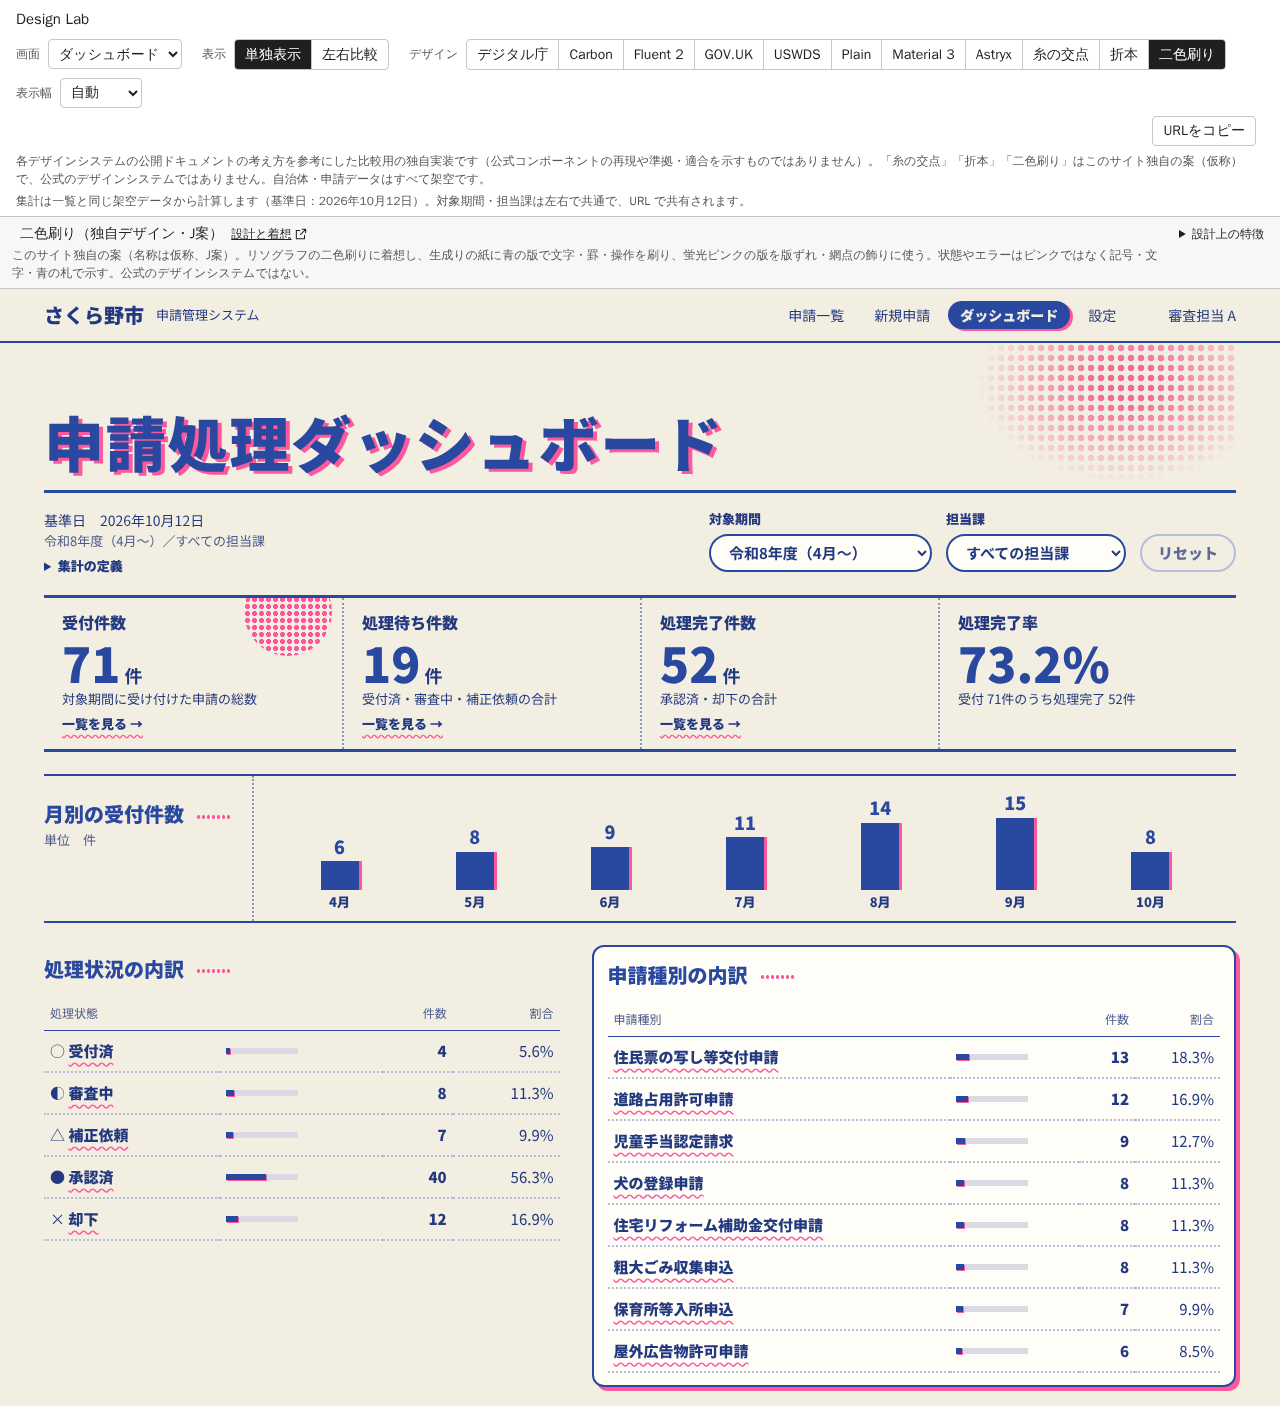
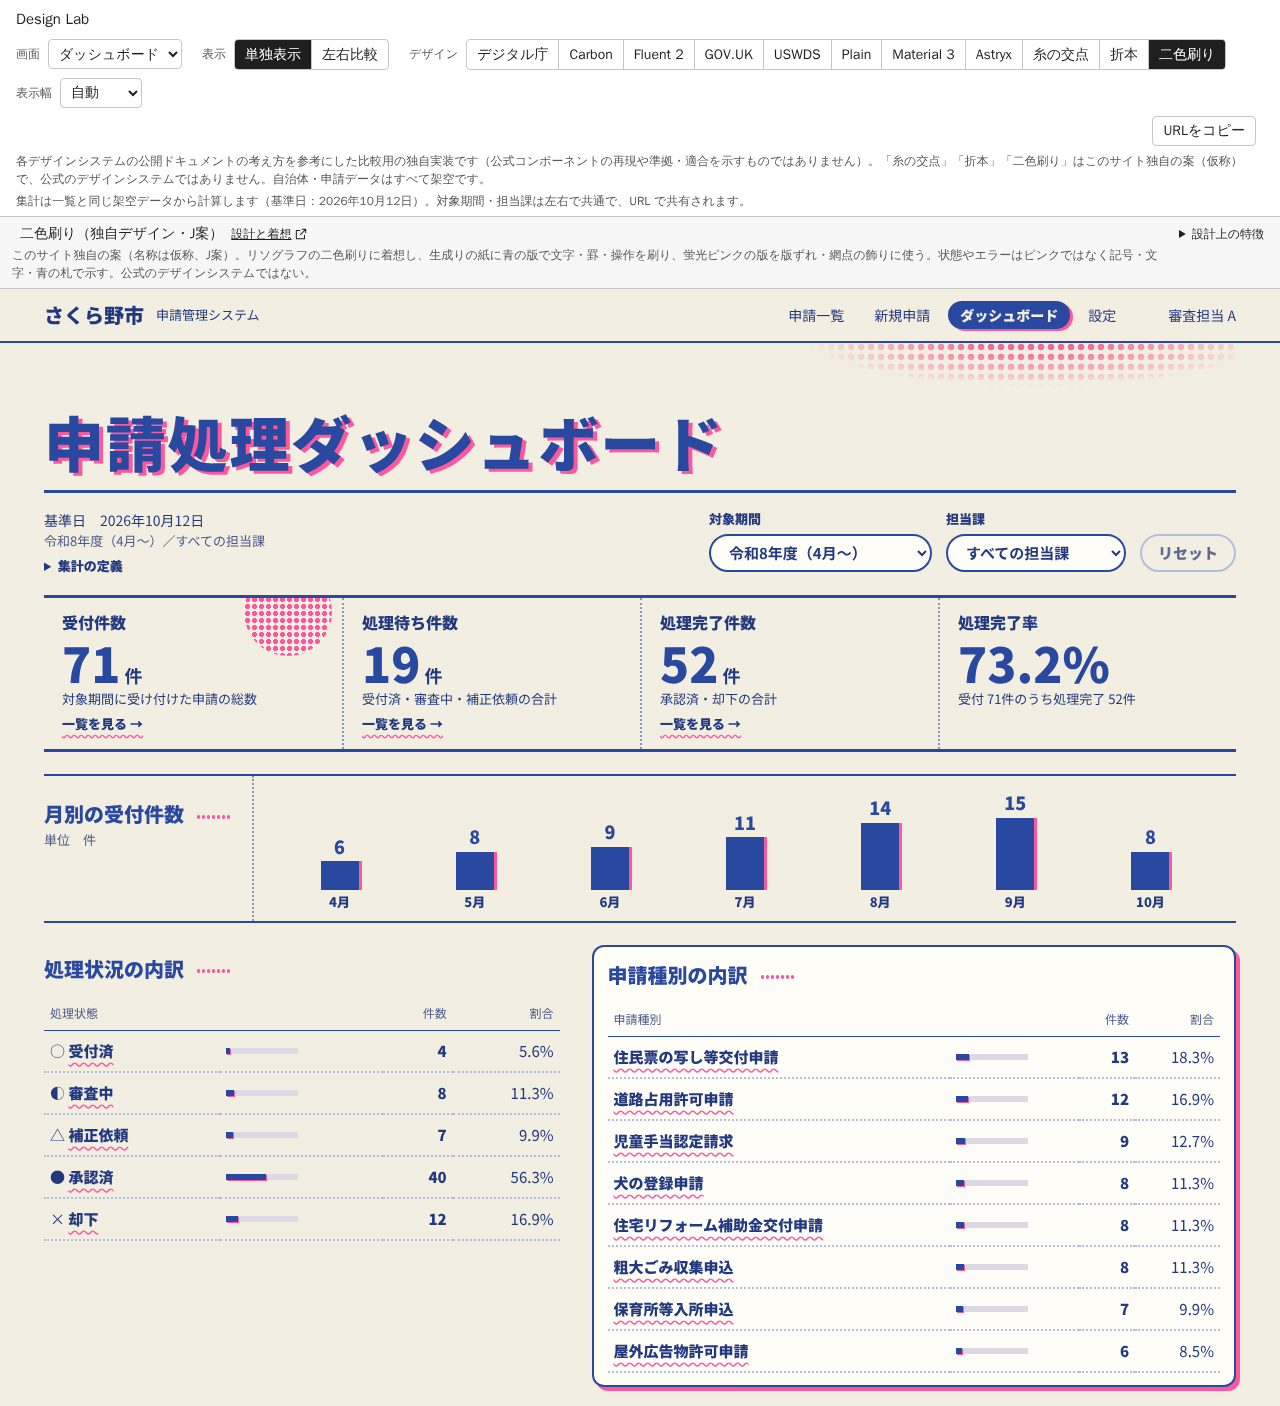
レビュー指摘に対応：表題の網点、0件の指標と空の一覧の案内、見出しの二重読み上げ
- 表題の網点を、見出しの上の余白の帯（--jr-band）だけに刷るようにした。見出し・件数・操作は帯の下に
  置くので、どの幅でも網点と重ならない（768px の一覧の件数、375px のダッシュボードの表題）
- 版ずれのピンクの複製（::before）は代替テキストを空にし（content: attr(data-text) / ''）、
  見出しの名前に入らないようにした。見た目は変えていない
- 0件の指標は一覧へのリンクを置かない（内訳の0件の行と同じ扱い）
- 空の一覧の案内は、その時点で画面にある解除の操作（「条件をクリア」「引き継ぎを解除」）だけを挙げる
- E2E：網点の重なりの確認を表題（一覧・ダッシュボード）へ広げ、見出しの名前・0件の指標・空の一覧の案内の
  確認を追加（いずれも修正前のコードでは失敗することを確認）
- このPRで追加した画面写真を差し替え

Claude-Session: https://claude.ai/code/session_016WQqJD6APGGPPhg2SEfqha

Changed region(s): [[0.6562, 0.2447, 0.9688, 0.3364]]

diff --git a/site/assets/css/designs/j-risograph.css b/site/assets/css/designs/j-risograph.css
@@ -45,17 +45,15 @@
 .ds-j-risograph .jr-btn--ghost { background: transparent; color: var(--jr-ink); border: 2px solid var(--jr-blue); box-shadow: none; }
 
 /* 表題：版ずれの見出し（青の上にピンクのずれ）、網点のにじみ */
-.ds-j-risograph .jl-hero { position: relative; display: flex; flex-wrap: wrap; align-items: flex-end; gap: 12px 26px; min-height: 150px; padding: 24px 0 18px; border-bottom: 3px solid var(--jr-blue); overflow: hidden; }
+/* 網点は表題の上の余白の帯（--jr-band）だけに刷る。見出し・件数・操作は帯の下に置き、網点と重ならない */
+.ds-j-risograph .jl-hero { --jr-band: 64px; position: relative; display: flex; flex-wrap: wrap; align-items: flex-end; gap: 12px 26px; min-height: 150px; padding: var(--jr-band) 0 18px; border-bottom: 3px solid var(--jr-blue); overflow: hidden; }
 .ds-j-risograph .jl-title { position: relative; z-index: 1; font-size: 60px; font-weight: 900; letter-spacing: 0.03em; line-height: 1.05; color: var(--jr-blue); }
-.ds-j-risograph .jl-title::before { content: attr(data-text); position: absolute; left: 4px; top: 3px; width: 100%; z-index: -1; color: var(--jr-pink); mix-blend-mode: multiply; } /* 見出しと同じ幅にして、同じ位置で折り返す */
+.ds-j-risograph .jl-title::before { content: attr(data-text) / ''; position: absolute; left: 4px; top: 3px; width: 100%; z-index: -1; color: var(--jr-pink); mix-blend-mode: multiply; } /* ピンクの版は飾り：代替テキストを空にして見出しの名前に入れない。見出しと同じ幅で、同じ位置で折り返す */
 .ds-j-risograph .jl-hero__count { position: relative; z-index: 1; font-size: 22px; font-weight: 900; }
 .ds-j-risograph .jl-hero__count b { font-size: 50px; line-height: 1; margin-right: 4px; color: var(--jr-blue); font-variant-numeric: tabular-nums; }
 .ds-j-risograph .jl-hero__count span { font-size: 15px; font-weight: 400; }
 .ds-j-risograph .jl-new { position: relative; z-index: 1; margin-left: auto; min-height: 42px; padding: 6px 22px; font-size: 15px; }
-.ds-j-risograph .jl-hero__dots { position: absolute; right: -40px; top: -70px; width: 460px; height: 280px; background: radial-gradient(circle, var(--jr-pink) 0 3.2px, transparent 3.6px) 0 0 / 10px 10px; -webkit-mask-image: radial-gradient(closest-side, #000 20%, transparent 100%); mask-image: radial-gradient(closest-side, #000 20%, transparent 100%); mix-blend-mode: multiply; opacity: 0.85; pointer-events: none; }
-.ds-j-risograph .jl-hero--list .jl-hero__dots { right: 120px; }
-.ds-j-risograph .jl-hero--form .jl-hero__dots { right: auto; left: 360px; top: auto; bottom: -150px; width: 220px; height: 220px; border-radius: 50%; -webkit-mask-image: none; mask-image: none; background-size: 8px 8px; }
-.ds-j-risograph .jl-hero--dashboard .jl-hero__dots { width: 300px; height: 200px; top: -60px; }
+.ds-j-risograph .jl-hero__dots { position: absolute; right: -30px; top: calc(var(--jr-band) * -0.8); width: 460px; height: calc(var(--jr-band) * 1.8 - 20px); /* 下端は帯の下端より 20px 上（大きな文字の字面は行の上へはみ出すため） */ background: radial-gradient(circle, var(--jr-pink) 0 3.2px, transparent 3.6px) 0 0 / 10px 10px; -webkit-mask-image: radial-gradient(closest-side, #000 25%, transparent 100%); mask-image: radial-gradient(closest-side, #000 25%, transparent 100%); mix-blend-mode: multiply; opacity: 0.85; pointer-events: none; }
 
 .ds-j-risograph .jl-notice { display: flex; flex-wrap: wrap; align-items: baseline; justify-content: space-between; gap: 6px 16px; margin-top: 14px; padding: 10px 16px; background: var(--jr-field); border: 2px solid var(--jr-blue); border-radius: 10px; }
 
@@ -223,7 +221,6 @@
   .ds-j-risograph .jd-kpi:nth-child(n + 3) { border-top: 2px dotted #8898c3; }
   .ds-j-risograph .jd-kpi__value b { font-size: 44px; }
   .ds-j-risograph .jd-grid { grid-template-columns: 1fr; gap: 22px; }
-  .ds-j-risograph .jl-hero--form .jl-hero__dots { left: auto; right: -60px; }
 }
 
 /* ---------- 狭い幅：表は行ごとに縦へ積み、列見出しは並べ替えの札の列にする ---------- */
@@ -233,11 +230,10 @@
   .ds-j-risograph .jl-nav ul { justify-content: space-between; gap: 0; }
   .ds-j-risograph .jl-nav a { font-size: 13px; padding: 3px 8px; }
   .ds-j-risograph .jl-top__user { margin-left: auto; }
-  .ds-j-risograph .jl-hero { gap: 6px 16px; min-height: 120px; padding-top: 16px; }
+  .ds-j-risograph .jl-hero { --jr-band: 48px; gap: 6px 16px; min-height: 120px; }
   .ds-j-risograph .jl-title { font-size: 38px; }
   .ds-j-risograph .jl-hero__count b { font-size: 38px; }
-  .ds-j-risograph .jl-hero__dots { width: 280px; height: 200px; right: -90px; opacity: 0.6; }
-  .ds-j-risograph .jl-hero--list .jl-hero__dots { right: -170px; top: -100px; } /* 件数の文字に掛けない */
+  .ds-j-risograph .jl-hero__dots { width: 260px; right: -40px; }
   .ds-j-risograph .jl-new { margin-left: 0; width: 100%; justify-content: center; }
   .ds-j-risograph .jr-steps { margin-left: 0; }
   .ds-j-risograph .jr-steps li { padding: 4px 10px; font-size: 14px; }

diff --git a/site/assets/js/designs/j-risograph.js b/site/assets/js/designs/j-risograph.js
@@ -94,6 +94,13 @@ function row(r, open, ctx, model) {
     </tr>${open ? html`<tr class="jl-detail-row"><td colspan="6">${detail(model.detail, ctx)}</td></tr>` : ''}`;
 }
 
+/** 空の一覧の案内。その時点で画面にある解除の操作だけを挙げる。 */
+function emptyHint(model) {
+  const ops = [model.filtered && '「条件をクリア」', model.scope.active && '「引き継ぎを解除」'].filter(Boolean);
+  if (!ops.length) return '';
+  return model.filtered ? `キーワードを変えるか、${ops.join('か')}を選んでください。` : `${ops[0]}を選ぶと、すべての申請を表示します。`;
+}
+
 function listPage(model, ctx) {
   const detached = model.detail && !model.rows.some((r) => r.id === model.detail.id);
   return html`${tools(model, ctx)}
@@ -109,7 +116,7 @@ function listPage(model, ctx) {
       ? html`<table class="jl-table"><caption class="visually-hidden">申請一覧（${countText(model)}）。列見出しのボタンで並べ替えできます。</caption>
           <thead><tr>${model.columns.map(sortHead)}<th scope="col" class="jl-col-act"><span class="visually-hidden">操作</span></th></tr></thead>
           <tbody>${model.rows.map((r) => row(r, model.detail?.id === r.id, ctx, model))}</tbody></table>`
-      : html`<p class="jl-empty">条件に一致する申請はありません。キーワードを変えるか、「条件をクリア」を選んでください。</p>`}`;
+      : html`<p class="jl-empty">条件に一致する申請はありません。${emptyHint(model)}</p>`}`;
 }
 
 /* ---------- 登録 ---------- */

diff --git a/site/assets/js/designs/j-risograph.dashboard.js b/site/assets/js/designs/j-risograph.dashboard.js
@@ -34,12 +34,13 @@ function conditions(d, ctx) {
 function kpis(d, ctx) {
   return html`<dl class="jd-kpis" aria-label="受付と処理の概況">
     ${d.kpis.map(
+      // 0件の指標は内訳の0件の行と同じく件数だけを示し、空の一覧へのリンクは置かない
       (k, i) => html`<div class="jd-kpi">
         ${i === 0 ? html`<span class="jd-kpis__dots" aria-hidden="true"></span>` : ''}
         <dt>${k.label}</dt>
         <dd class="jd-kpi__value"><b ${kpiMark(k.key)}>${k.value}</b>${k.unit}</dd>
         <dd class="jd-kpi__note">${k.note}</dd>
-        ${k.link ? html`<dd class="jd-kpi__link">${listLink(ctx, k.link, '一覧を見る →', { cls: 'jl-link', hint: `${k.label} ${k.value}件` })}</dd>` : ''}
+        ${k.link && Number(k.value) > 0 ? html`<dd class="jd-kpi__link">${listLink(ctx, k.link, '一覧を見る →', { cls: 'jl-link', hint: `${k.label} ${k.value}件` })}</dd>` : ''}
       </div>`,
     )}
   </dl>`;
